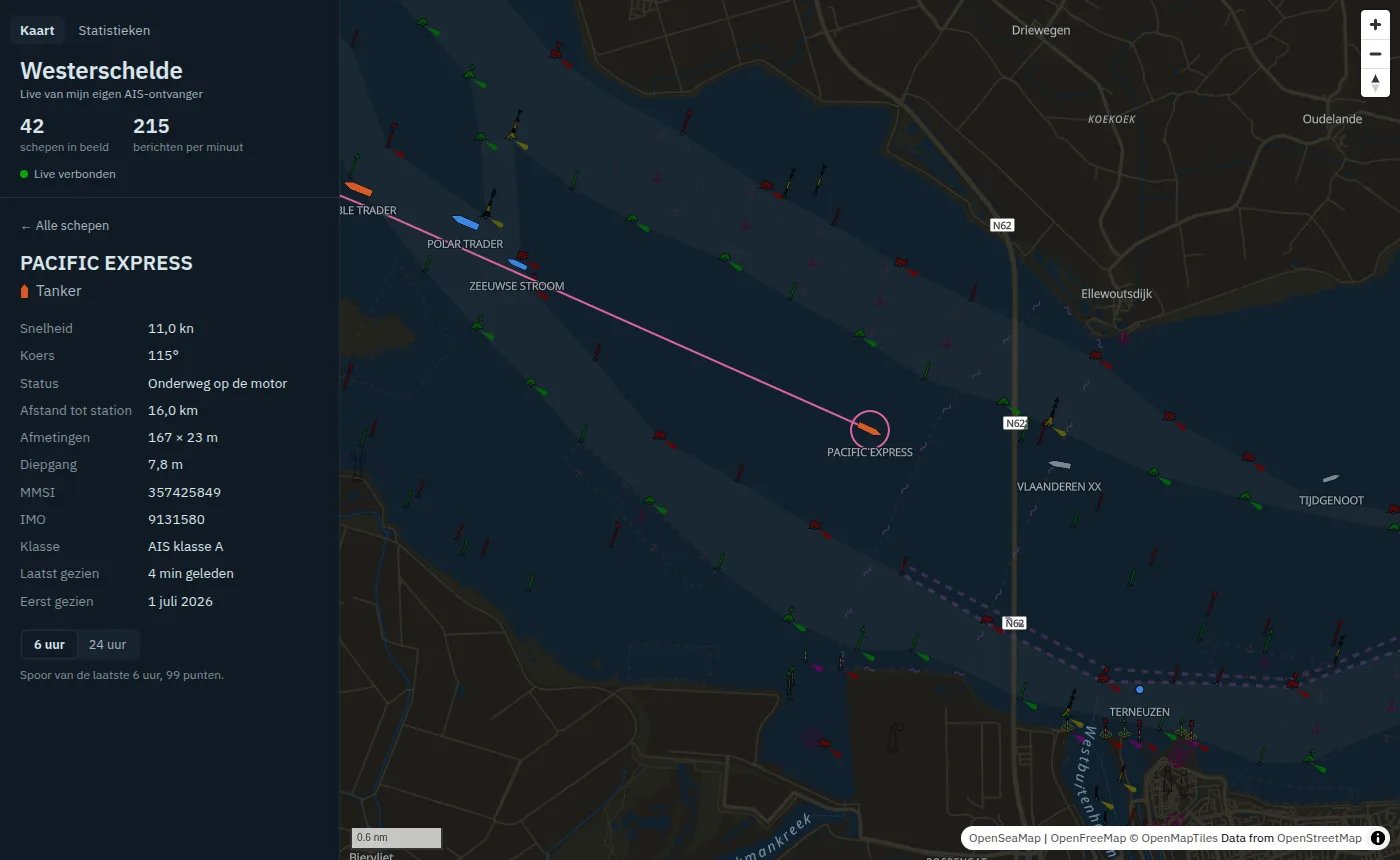
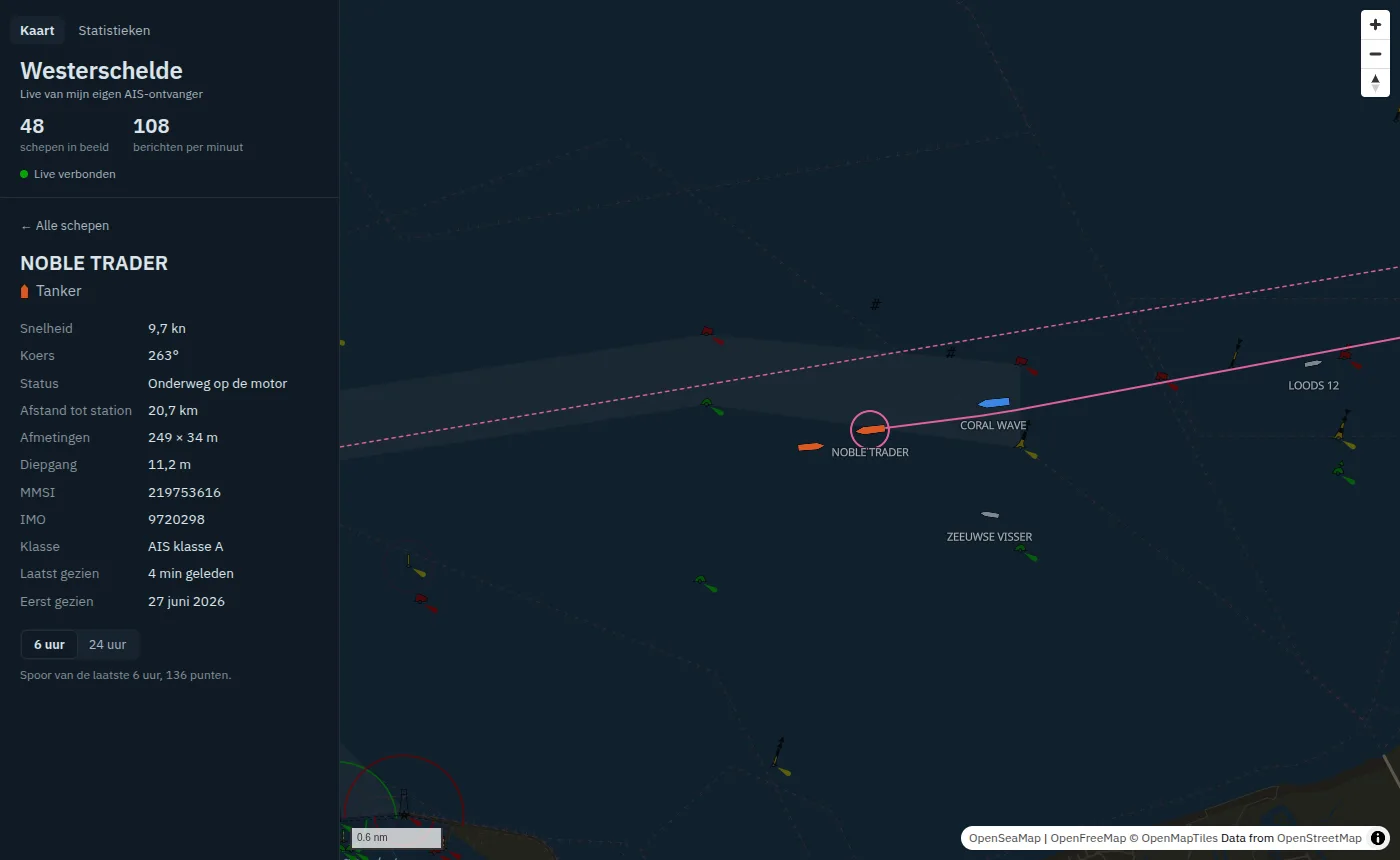
Uitrol en documentatie voor back-up, doorvaart en bereik
- aisws.service mag naar /mnt/aisws-backup schrijven, en start ook zonder stick
- config.example.toml met [gate] en backup_dir/backup_keep
- pi-setup: stap 6 back-up op een USB-stick, terugzetten, health-veld en problemen
- duidelijke melding als de back-upmap niet schrijfbaar is (ontkoppelde stick)
- README en schermafbeeldingen bijgewerkt

diff --git a/tests/test_backup.py b/tests/test_backup.py
@@ -87,6 +87,18 @@ def test_missing_directory_is_an_error_and_is_not_created(store, tmp_path):
     assert not missing.exists()
 
 
+@pytest.mark.skipif(os.geteuid() == 0, reason="root mag overal schrijven")
+def test_unwritable_directory_says_so(store, stick):
+    # Zo ziet een ontkoppelde stick eruit: het lege koppelpunt is van root.
+    stick.chmod(0o555)
+    try:
+        with pytest.raises(BackupError, match="niet schrijfbaar"):
+            store.backup(stick, DAY, keep=7)
+    finally:
+        stick.chmod(0o755)
+    assert os.listdir(stick) == []
+
+
 def test_no_half_written_file_is_left_after_a_failure(store, stick, monkeypatch):
     def broken_replace(*args):
         raise OSError("schijf vol")

diff --git a/src/aisws/store.py b/src/aisws/store.py
@@ -378,6 +378,8 @@ class Store:
         directory = Path(directory)
         if not directory.is_dir():
             raise BackupError(f"{directory} bestaat niet; is de stick gekoppeld?")
+        if not os.access(directory, os.W_OK):
+            raise BackupError(f"{directory} is niet schrijfbaar; is de stick gekoppeld en van aisws?")
         target = directory / backup_name(day)
         tmp = directory / f".{target.name}.tmp"
         try:

diff --git a/README.md b/README.md
@@ -31,19 +31,24 @@ uitgedunde sporen en uur-aggregaten op in SQLite.
 is, op een ondergrond in de kleuren van een papieren zeekaart (of het
 nachtpalet van een kaartscherm, in de donkere modus). Klik op een schip voor
 naam, type, afmetingen, bestemming en het spoor van de laatste 6 of 24 uur.
-Vanaf zoomniveau 12 staan boeien en vaargeulen van OpenSeaMap erop.
+Vanaf zoomniveau 12 staan boeien en vaargeulen van OpenSeaMap erop, en een
+stippellijn markeert de doorvaartlijn bij Vlissingen.
 
 **Statistieken.**
 
 - aantal schepen per uur (48 uur) en per dag (90 dagen)
+- doorvaart bij Vlissingen: per dag hoeveel schepen de Schelde op en af voeren,
+  en per scheepstype
 - drukste momenten van de week, als heatmap van weekdag × uur
 - gemiddelde snelheid per scheepstype
 - grootste schip van de maand, op schaal getekend
 - verste ontvangst ooit, met een lijn vanaf het station op de kaart
+- bereik per richting: per 10° de verste ontvangst rond het station, handig om
+  de antenne te plaatsen
 
 <p>
   <img src="docs/img/kaart-schip-donker.webp" width="49%" alt="Donkere modus: een tanker geselecteerd, met gegevens en spoor">
-  <img src="docs/img/statistieken.webp" width="49%" alt="Statistiekenpagina met verkeer per uur en per dag, heatmap, snelheden en records">
+  <img src="docs/img/statistieken.webp" width="49%" alt="Statistiekenpagina met verkeer, doorvaart, heatmap, snelheden, records en bereik per richting">
 </p>
 
 De schermafbeeldingen tonen verzonnen verkeer uit het voorbeeldbestand en
@@ -87,7 +92,8 @@ minuut:
 ## Op de Raspberry Pi
 
 Zie [docs/pi-setup.md](docs/pi-setup.md): antenne, AIS-catcher, `sudo
-deploy/install.sh`, controleren en problemen oplossen.
+deploy/install.sh`, controleren, back-up op een USB-stick en problemen
+oplossen.
 
 ## Hoe het werkt
 
@@ -97,9 +103,10 @@ deploy/install.sh`, controleren en problemen oplossen.
 | `assembler.py` | berichten over meerdere zinnen samenvoegen (time-out 2 s) |
 | `bits.py` | 6-bit-payload uitpakken; velden als uint, signed int en 6-bit-tekst |
 | `messages.py` | types 1/2/3, 5, 18, 19 en 24 decoderen |
-| `tracker.py` | live toestand, sporen uitdunnen, onmogelijke posities weren, records |
-| `store.py` | SQLite (WAL): gebufferd wegschrijven, opschonen, herstel na herstart |
-| `stats.py` | de vijf statistieken, in lokale tijd (ook rond de zomertijdwissel) |
+| `tracker.py` | live toestand, sporen uitdunnen, onmogelijke posities weren, records, richting en doorvaart |
+| `store.py` | SQLite (WAL): gebufferd wegschrijven, opschonen, herstel na herstart, back-up |
+| `backup.py` | wanneer de dagelijkse back-up draait, en hoe die ging |
+| `stats.py` | de statistieken, in lokale tijd (ook rond de zomertijdwissel) |
 | `ingest.py`, `hub.py`, `web.py` | UDP-listener, WebSocket-updates, FastAPI |
 
 Decoder, tracker en statistieken bevatten geen I/O en zijn los te testen. Alles
@@ -119,6 +126,14 @@ Een paar keuzes:
 - **Snelheid per type** telt hoogstens één meting per schip per 30 s. Klasse A
   zendt vaker naarmate een schip harder vaart, dus zonder die grens trekken
   snelle schepen het gemiddelde omhoog.
+- **Doorvaart** telt een schip als het stuk tussen twee gecontroleerde posities
+  de lijn snijdt en het schip minstens 1 knoop vaart; ankerliggers met GPS-ruis
+  tellen zo niet mee. De lijn staat in `config.toml` onder `[gate]` en telt alles
+  wat voorbij Vlissingen vaart, dus ook naar Vlissingen-Oost en Terneuzen.
+- **Back-up.** Elke dag kopieert aisws alles behalve de tracksporen naar
+  `backup_dir`, bijvoorbeeld een USB-stick; een half geschreven back-up bestaat
+  nooit (eerst een tijdelijke naam, dan hernoemen). Zie
+  [docs/pi-setup.md](docs/pi-setup.md).
 - **Drie kleuren op de kaart** (vracht, tanker, passagiers), de rest grijs. Met
   meer kleuren door elkaar zijn niet alle paren meer te onderscheiden voor
   kleurenblinde lezers. Het precieze type staat in de lijst.
@@ -129,7 +144,7 @@ Een paar keuzes:
 .venv/bin/pytest
 ```
 
-Ruim 200 tests, zonder SDR of netwerk. De decoder wordt gecontroleerd met
+Ruim 250 tests, zonder SDR of netwerk. De decoder wordt gecontroleerd met
 gepubliceerde voorbeeldberichten uit de gpsd-documentatie. Types 19 en 24
 worden gecontroleerd met berichten die veld voor veld zijn opgebouwd volgens
 ITU-R M.1371-5 (`tools/aisenc.py`). Een end-to-end-test speelt het
@@ -143,7 +158,9 @@ voorbeeldbestand via UDP af tegen de echte app.
 | `GET /api/vessels/{mmsi}` | details van één schip |
 | `GET /api/vessels/{mmsi}/track?hours=6` | uitgedund spoor |
 | `GET /api/stats/hourly`, `/daily`, `/speed`, `/heatmap`, `/largest`, `/range` | statistieken |
-| `GET /api/health` | berichten per minuut, foutentellers, databasegrootte |
+| `GET /api/stats/passages?days=90` | doorvaart per dag, vandaag en per type |
+| `GET /api/stats/coverage?period=30d` | verste ontvangst per richting (`7d`, `30d`, `all`) |
+| `GET /api/health` | berichten per minuut, foutentellers, databasegrootte, laatste back-up |
 | `WS /ws` | snapshot bij verbinden, daarna elke seconde de wijzigingen |
 
 ## Stand van zaken
@@ -153,6 +170,7 @@ voorbeeldbestand via UDP af tegen de echte app.
 - [x] Backend die NMEA decodeert en opslaat
 - [x] Live kaart met MapLibre
 - [x] Statistiekenpagina
+- [x] Doorvaart bij Vlissingen, bereik per richting en dagelijkse back-up
 - [ ] Foto's van de opstelling in deze README
 
 ## Met dank aan

diff --git a/docs/pi-setup.md b/docs/pi-setup.md
@@ -127,6 +127,78 @@ In `/api/health` zie je hoe het station draait:
 | `counters.checksum_error` | kapotte regels; veel daarvan betekent een zwak of gestoord signaal |
 | `counters.implausible` | posities die verworpen zijn als onmogelijk (sprong of te ver weg) |
 | `unsupported_types` | berichttypes die binnenkomen maar niet gedecodeerd worden, zoals 4 (walstations) en 21 (boeien) |
+| `backup` | de laatste back-up (`file`, `ts`, `bytes`) of de reden dat hij mislukte (`error`); `null` als de back-up uit staat |
+
+## 6. Back-up op een USB-stick
+
+aisws bewaart de schepen, uurcijfers, records, doorvaarten en het bereik voor
+altijd, op een SD-kaart die dag en nacht schrijft. Een dagelijkse back-up op een
+USB-stick overleeft een kapotte kaart. De tracksporen gaan niet mee: die zijn
+groot en na 30 dagen toch weg. Een back-up is een paar MB per maand.
+
+Steek de stick in en zoek hem op (`sda1` hieronder is een voorbeeld):
+
+```bash
+lsblk -f
+```
+
+Formatteer hem als ext4. **Dit wist de stick.**
+
+```bash
+sudo mkfs.ext4 -L aisws-backup /dev/sda1
+```
+
+Maak het koppelpunt en laat de stick bij het opstarten koppelen. Met `nofail`
+start de Pi ook zonder stick:
+
+```bash
+sudo mkdir -p /mnt/aisws-backup
+echo 'LABEL=aisws-backup /mnt/aisws-backup ext4 defaults,noatime,nofail 0 2' | sudo tee -a /etc/fstab
+sudo systemctl daemon-reload
+sudo mount /mnt/aisws-backup
+sudo chown aisws:aisws /mnt/aisws-backup
+```
+
+De `chown` geldt voor de stick. Het lege koppelpunt eronder blijft van root: zit
+de stick er niet in, dan kan aisws er niet schrijven en meldt het een fout, in
+plaats van de back-up stilletjes op de SD-kaart te zetten.
+
+Zet in `/etc/aisws/config.toml` onder `[storage]`:
+
+```toml
+backup_dir = "/mnt/aisws-backup"
+```
+
+en herstart met `sudo systemctl restart aisws`. Direct na het opstarten maakt
+aisws de back-up van vandaag, daarna elke nacht kort na middernacht. De nieuwste
+7 blijven staan (`backup_keep`). Controleer:
+
+```bash
+ls -l /mnt/aisws-backup
+curl -s localhost:8000/api/health | grep -o '"backup":{[^}]*}'
+```
+
+Een andere map dan `/mnt/aisws-backup` moet de service ook mogen beschrijven.
+Zet die met `sudo systemctl edit aisws` in een aanvulling, dan blijft hij staan
+als `install.sh` de unit bijwerkt:
+
+```ini
+[Service]
+ReadWritePaths=/jouw/map
+```
+
+### Terugzetten
+
+```bash
+sudo systemctl stop aisws
+sudo cp /mnt/aisws-backup/ais-2026-10-01.db /var/lib/aisws/ais.db
+sudo rm -f /var/lib/aisws/ais.db-wal /var/lib/aisws/ais.db-shm
+sudo chown aisws:aisws /var/lib/aisws/ais.db
+sudo systemctl start aisws
+```
+
+Alles is terug behalve de tracksporen: de lijnen achter de schepen beginnen
+opnieuw.
 
 ## Updaten
 
@@ -145,7 +217,8 @@ Je configuratie en database blijven staan.
 | Wel berichten, geen schepen op de kaart | Stationpositie klopt niet: alles valt buiten `max_range_km` | `counters.implausible` loopt op; controleer `[station]` in de config |
 | aisws start niet | Configuratie ongeldig | `journalctl -u aisws -e` noemt de instelling die niet klopt |
 | Log meldt "5 minuten geen AIS-berichten" | Antenne, kabel of dongle | Kijk of `ais-catcher` nog draait; bij een losse dongle helpt een herstart |
-| Weinig bereik | Antenne te laag of te veel kabelverlies | Hoger zetten; kortere of dikkere coax |
+| Weinig bereik | Antenne te laag of te veel kabelverlies | Hoger zetten; kortere of dikkere coax; kijk op de statistiekenpagina bij "Bereik per richting" welke kant het slechtst is |
+| `/api/health` meldt bij `backup` "bestaat niet" of "niet schrijfbaar" | Stick niet gekoppeld, of na het koppelen de `chown` vergeten | `findmnt /mnt/aisws-backup`; `sudo mount /mnt/aisws-backup`. aisws probeert het elk uur opnieuw |
 
 ## Delen
 
